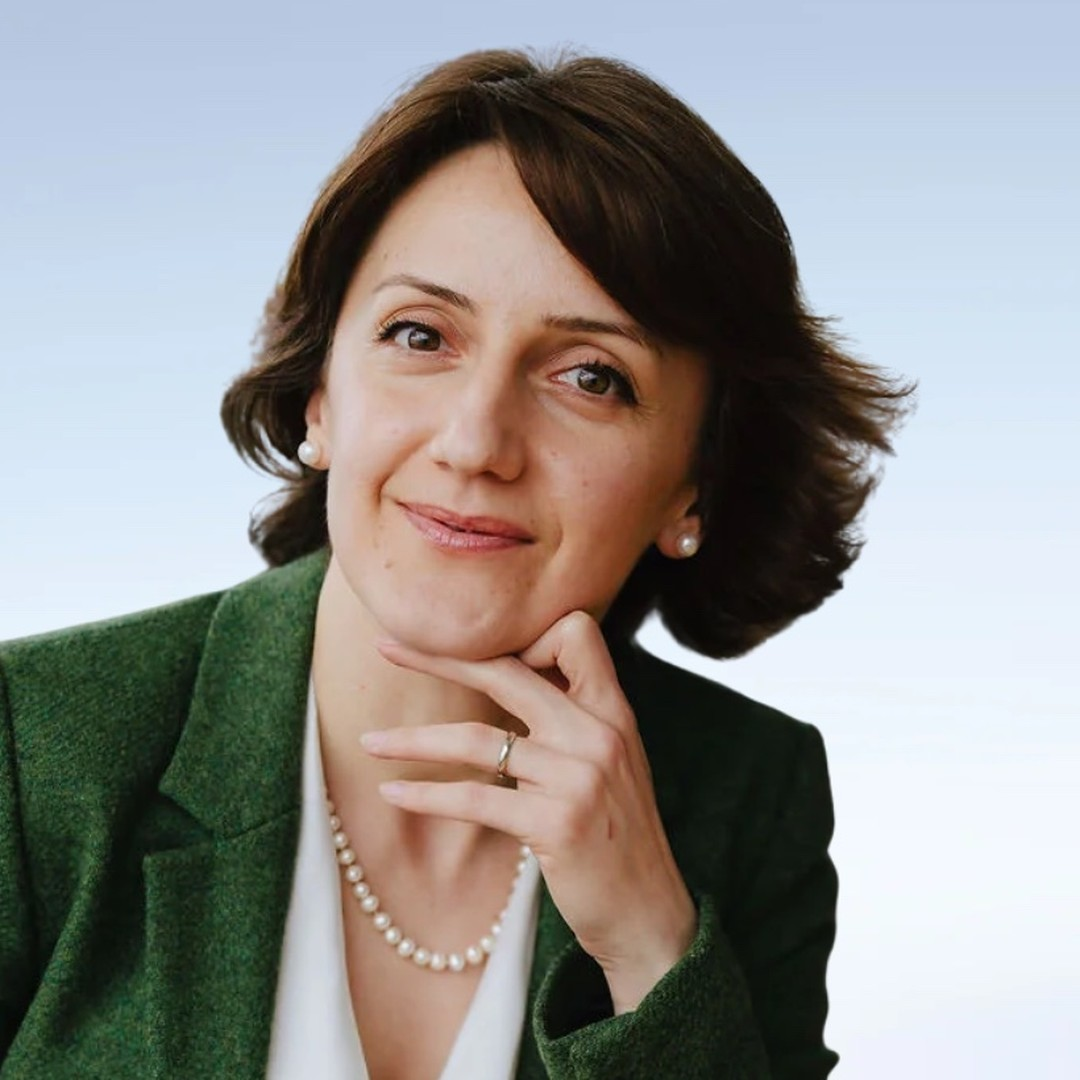
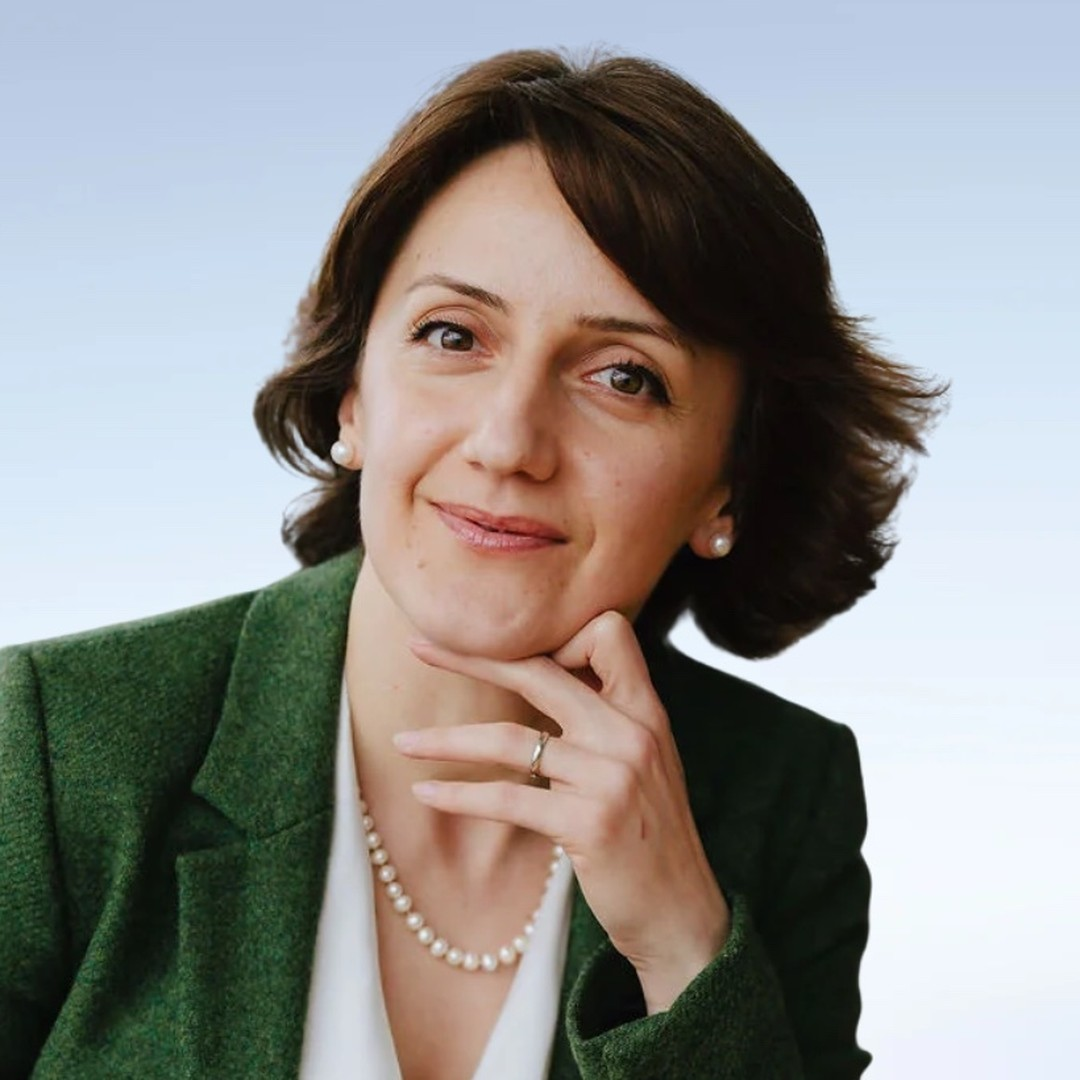
Shift Anush Seyranyan's photo slightly right
Claude-Session: https://claude.ai/code/session_01UY2yYSyHezMTLTrkPybDFD

diff --git a/team.html b/team.html
@@ -297,7 +297,7 @@
           <a class="more" href="adlea-advisory-bios.html#artineh-samkian">Learn more &#8594;</a>
         </div>
         <div class="team-card">
-          <div class="team-photo"><img src="assets/anush-seyranyan.jpg" alt="Anush Seyranyan, MBA, CPA"></div>
+          <div class="team-photo"><img src="assets/anush-seyranyan.jpg?v=2" alt="Anush Seyranyan, MBA, CPA"></div>
           <h3><a href="https://seyranyan.com" target="_blank" rel="noopener" class="name-link">Anush Seyranyan, MBA, CPA</a></h3>
           <p class="role">Founder<br>Seyranyan CFO Advisory</p>
           <a class="more" href="adlea-advisory-bios.html#anush-seyranyan">Learn more &#8594;</a>
